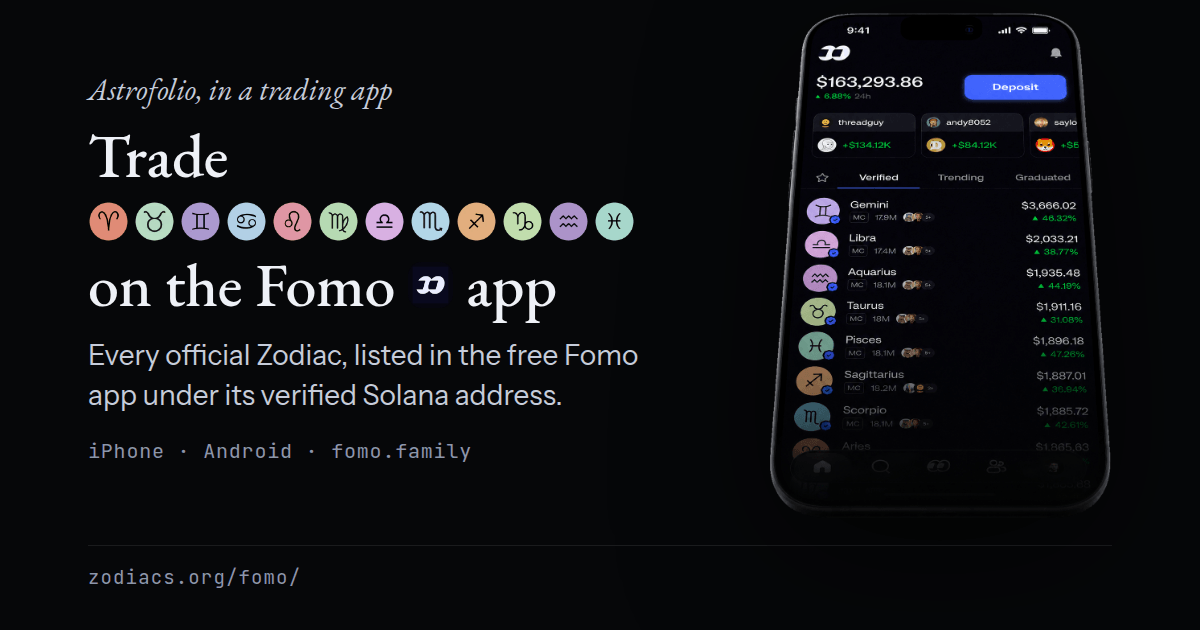
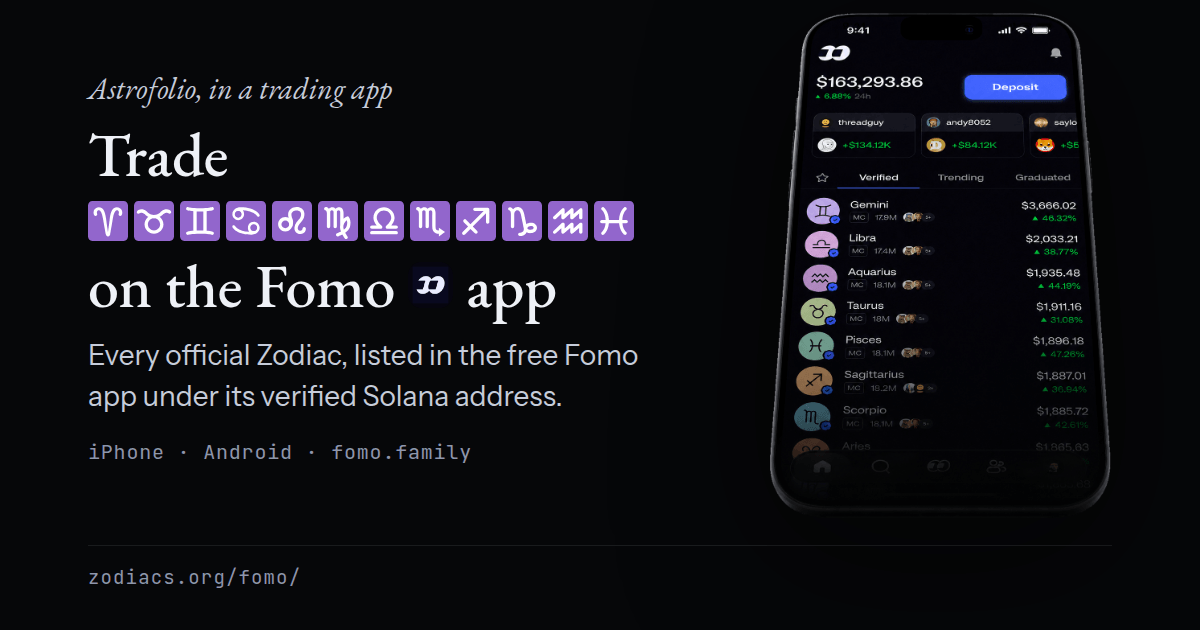
Fomo page: the twelve as zodiac emoji in the headline
The headline's middle line now sets the twelve as the zodiac emoji, the
glyphs the audience already types, drawn by each visitor's own platform;
a deliberate exception to the twelve-hue rule, on this promotional wing
page only. The share card, which we render ourselves, uses Twemoji for
the same row (CC-BY 4.0, provenance in docs/VENUE-MARKS.md) so the card
shows the glyphs the way X draws them. The accessible headline is
unchanged: "Trade the twelve Zodiacs on the Fomo app".

Claude-Session: https://claude.ai/code/session_01TEkNiYjC21tAnPv21KQUun

diff --git a/docs/VENUE-MARKS.md b/docs/VENUE-MARKS.md
@@ -54,6 +54,12 @@ honest presentation when we cannot use the real thing.
 | --- | --- |
 | `applepay.svg` | An in-house reproduction of the Apple Pay lockup ( + "Pay"). Apple's official mark is distributed through their marketing portal under the Apple Pay Identity Guidelines and is not fetchable; the owner accepted a reproduction on 2026-08-02 rather than ship the words "Apple Pay" as plain text. It appears only beside a payment provider that actually offers Apple Pay, never as a claim that zodiacs.org accepts it. Replace this file if the official asset is ever obtained. |
 
+## Third-party glyphs on the /fomo/ share card
+
+| Files | Basis |
+| --- | --- |
+| `scripts/og-assets/twemoji/2648.svg` … `2653.svg` | The twelve zodiac emoji (U+2648–U+2653) from Twemoji 14.0.2, fetched 2026-09-07 from `https://cdnjs.cloudflare.com/ajax/libs/twemoji/14.0.2/svg/{codepoint}.svg`. Graphics © Twitter, Inc. and other contributors, licensed CC-BY 4.0; used unmodified and only on the generated `/fomo/` share card (`scripts/build-og-void.mjs`), so the twelve appear there the way X draws them. The page itself renders the emoji with the visitor's own platform font and ships no artwork. |
+
 ## Adding a mark
 
 1. Take the vendor's own file. Prefer a pinned-tab/mask SVG, then a vector logo, then a transparent PNG. Never trace or redraw a logo.
